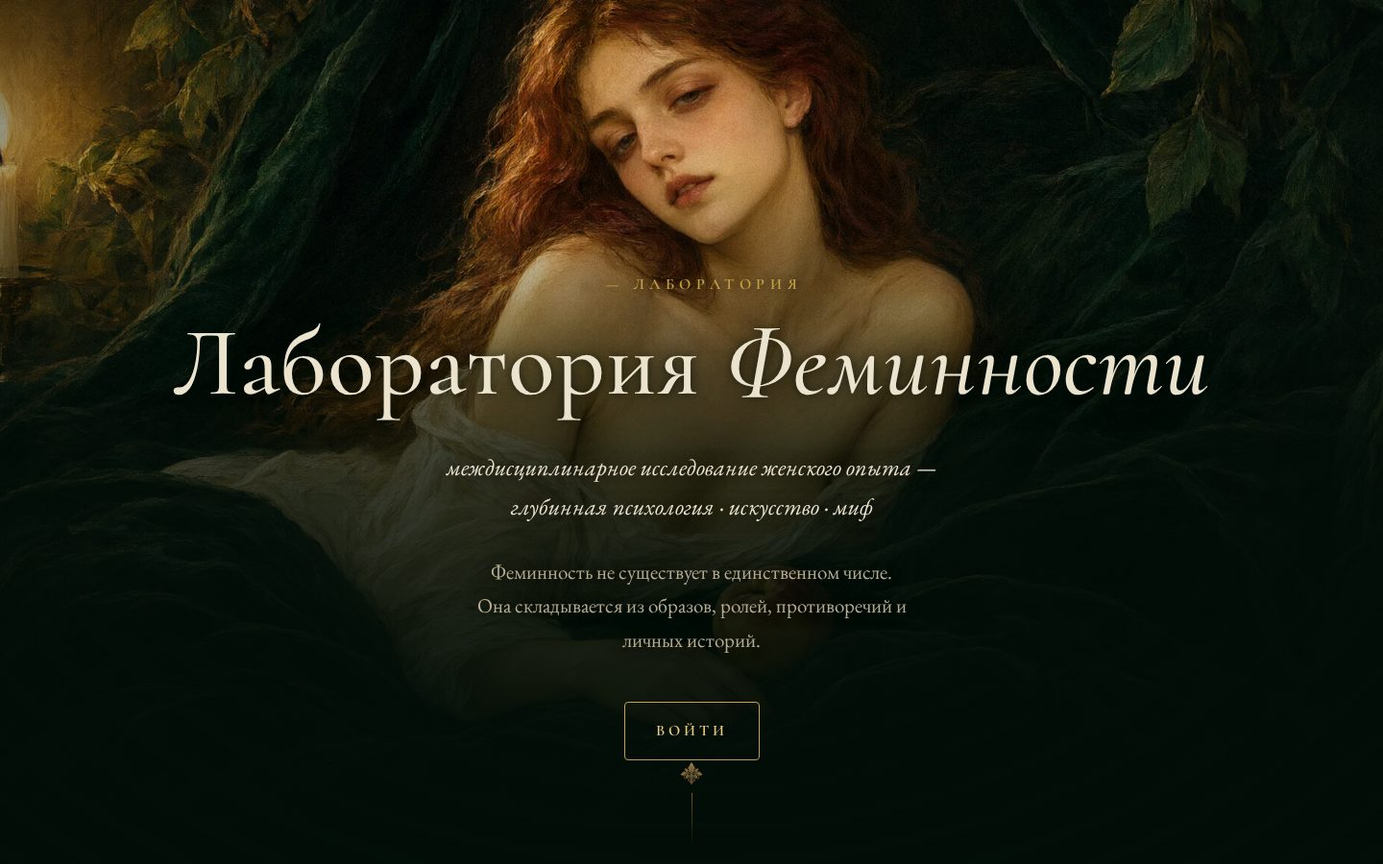
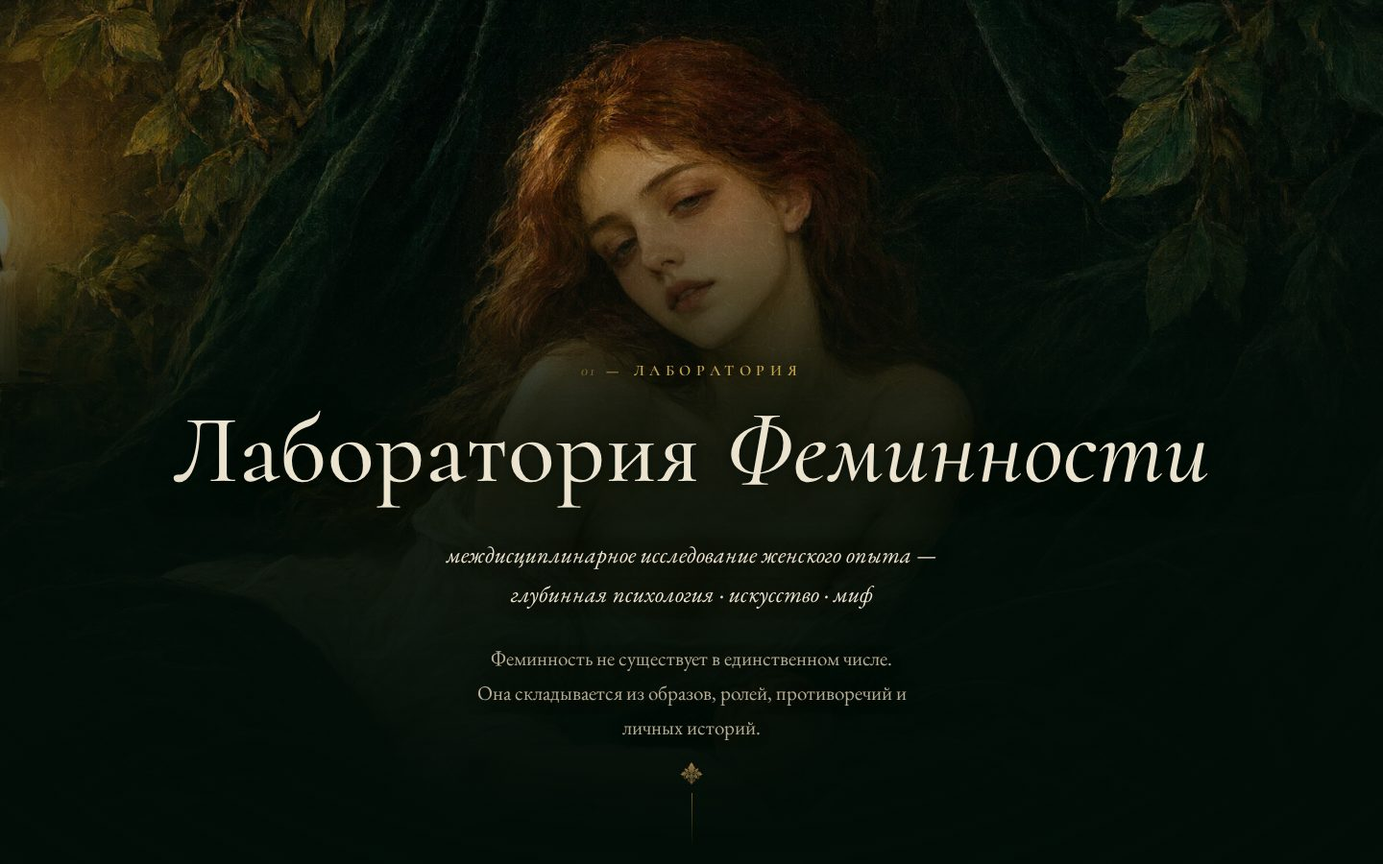
v6 - затемнение главного экана

diff --git a/v6/site/assets/css/style.css b/v6/site/assets/css/style.css
@@ -76,7 +76,9 @@ html{
 /* слой 2: бархат под контентом (ловушка v5: фон body не ставить) */
 html::before{
   content:"";position:fixed;inset:0;z-index:-2;pointer-events:none;
-  background:url('../img/tex/velvet-tile.webp') repeat;background-size:1024px 1024px;
+  /* затемнение бархата на 20%: первый слой — чёрная вуаль поверх плитки */
+  background:linear-gradient(rgba(0,0,0,.2),rgba(0,0,0,.2)),
+    url('../img/tex/velvet-tile.webp') repeat;background-size:1024px 1024px;
 }
 /* слой 4: виньетка «зала» поверх вьюпорта (fixed — без стыков между секциями);
    кракелюр живёт только на полотнах, см. .arch::before/.frame::before */
@@ -200,21 +202,30 @@ a:hover{color:var(--gold-bright);}
 }
 .hero-bg{position:absolute;inset:0;z-index:0;}
 .hero-bg img{width:100%;height:100%;object-fit:cover;object-position:50% 0%;}
+/* кракелюр на полотне hero (как на картинах в рамках) */
+.hero::before{
+  content:"";position:absolute;inset:0;z-index:1;pointer-events:none;
+  background:url('../img/tex/crackle-tile.webp') repeat;background-size:260px 260px;
+  mix-blend-mode:soft-light;opacity:.75;
+}
 .hero-scrim{
   position:absolute;inset:0;z-index:1;pointer-events:none;
   background:linear-gradient(to top,
     var(--velvet-deep) 0%,
-    rgba(2,13,7,.9) 26%,
-    rgba(2,13,7,.74) 48%,
-    rgba(2,13,7,.3) 66%,
-    transparent 80%);
+    rgba(2,13,7,.9) 24%,
+    rgba(2,13,7,.78) 38%,
+    rgba(2,13,7,.5) 50%,
+    rgba(2,13,7,.26) 60%,
+    rgba(2,13,7,.1) 70%,
+    rgba(2,13,7,.02) 80%,
+    transparent 88%);
 }
 .hero-copy{position:relative;z-index:2;text-align:center;}
-.hero-copy .label{margin-bottom:1em;text-shadow:0 1px 12px rgba(2,13,7,.95);}
-.hero-copy h1{margin:0 0 .35em;text-shadow:0 2px 34px rgba(2,13,7,.95),0 0 8px rgba(2,13,7,.6);}
+.hero-copy .label{margin-bottom:1em;text-shadow:0 1px 2px rgba(2,13,7,.95),0 2px 14px rgba(2,13,7,.9),0 4px 34px rgba(2,13,7,.8);}
+.hero-copy h1{margin:0 0 .35em;text-shadow:0 2px 4px rgba(2,13,7,.92),0 4px 22px rgba(2,13,7,.88),0 6px 48px rgba(2,13,7,.75);}
 .hero-sub{font-style:italic;font-size:24px;color:var(--ivory);margin:0 0 1.2em;
   text-shadow:0 1px 18px rgba(2,13,7,.9);}
-.hero-essence{font-size:21px;color:var(--ivory-dim);margin:0 auto 2.2em;max-width:46ch;
+.hero-essence{font-size:21px;color:var(--ivory-dim);margin:0 auto .8em;max-width:46ch;
   text-shadow:0 1px 14px rgba(2,13,7,.9);}
 .hero-thread{
   position:absolute;left:50%;bottom:2svh;transform:translateX(-50%);z-index:2;
@@ -223,24 +234,24 @@ a:hover{color:var(--gold-bright);}
 .hero-thread img{width:28px;height:28px;opacity:.85;}
 .thread-line{width:1px;height:56px;background:linear-gradient(var(--gold-dim),transparent);}
 
-/* ---------- антракт: полноэкранное полотно с цитатой ---------- */
+/* антракт: полноэкранное полотно без текста; кракелюр + мягкий низ */
 .interlude{
   position:relative;min-height:92svh;overflow:hidden;
-  display:flex;align-items:flex-end;justify-content:center;padding:0 0 10svh;
 }
 .interlude-bg{position:absolute;inset:0;width:100%;height:100%;object-fit:cover;object-position:50% 22%;}
-.interlude::after{
-  content:"";position:absolute;inset:0;pointer-events:none;
-  background:radial-gradient(ellipse 88% 58% at 50% 106%,rgba(2,13,7,.9),rgba(2,13,7,.5) 55%,transparent 78%);
+.interlude::before{
+  content:"";position:absolute;inset:0;z-index:1;pointer-events:none;
+  background:url('../img/tex/crackle-tile.webp') repeat;background-size:260px 260px;
+  mix-blend-mode:soft-light;opacity:.75;
 }
-.interlude-quote{
-  position:relative;z-index:2;margin:0;text-align:center;
-  font-family:'Cormorant',Georgia,serif;font-style:italic;font-size:clamp(26px,3.4vw,44px);
-  color:var(--ivory);text-shadow:0 2px 26px rgba(2,13,7,.9);
+.interlude::after{
+  content:"";position:absolute;inset:0;z-index:2;pointer-events:none;
+  background:radial-gradient(ellipse 88% 58% at 50% 106%,rgba(2,13,7,.9),rgba(2,13,7,.5) 55%,transparent 78%);
 }
 
 /* ---------- панели-секции ---------- */
 .panel{position:relative;padding:14svh 0 0;}
+#meetings{padding-bottom:10svh;} /* дыхание между карточками 06 и антрактом */
 #invite{padding-bottom:14svh;}
 .pair-grid{display:grid;grid-template-columns:1fr 1fr;gap:72px;align-items:center;}
 .pair-canvas{margin:0;max-width:540px;width:100%;}

diff --git a/v6/site/index.html b/v6/site/index.html
@@ -42,7 +42,6 @@
       глубинная психология · искусство · миф</p>
     <p class="hero-essence">Феминность не существует в единственном числе.<br>
       Она складывается из образов, ролей, противоречий и личных историй.</p>
-    <a class="btn" href="#feminity">войти</a>
   </div>
   <div class="hero-thread" aria-hidden="true">
     <img src="assets/img/orn/fleuron.webp" width="28" height="28" alt="">
@@ -137,7 +136,7 @@
     <h2>Кто создаёт лабораторию</h2>
     <div class="authors-grid">
       <figure class="author">
-        <div class="author-canvas arch">
+        <div class="author-canvas frame">
           <img src="assets/img/authors/polina.webp" width="700" height="1050" loading="lazy"
                alt="Портрет Полины Кронер, дуотон-сепия">
         </div>
@@ -150,7 +149,7 @@
         </figcaption>
       </figure>
       <figure class="author">
-        <div class="author-canvas arch">
+        <div class="author-canvas frame">
           <img src="assets/img/authors/veronika.webp" width="700" height="1050" loading="lazy"
                alt="Портрет Вероники Гугучкиной, дуотон-сепия">
         </div>
@@ -234,14 +233,12 @@
       </article>
     </div>
   </div>
-  <div class="divider" aria-hidden="true"><img src="assets/img/orn/fleuron.webp" width="32" height="32" alt=""></div>
 </section>
 
-<!-- АНТРАКТ: полноэкранное полотно с цитатой -->
+<!-- АНТРАКТ: полноэкранное полотно без текста -->
 <section class="interlude" aria-label="антракт">
-  <img class="interlude-bg" src="assets/img/hero/hero-canvas-2.webp" width="1100" height="1375" loading="lazy"
+  <img class="interlude-bg" src="assets/img/hero/hero-canvas-2.webp" width="1460" height="1825" loading="lazy"
        alt="Возлежащая в соскользнувшей сорочке, персик в ямочке ключицы — полотно-антракт">
-  <p class="interlude-quote">входи медленно — здесь картины дышат</p>
 </section>
 
 <!-- 07 — КАК ЭТО ПРОИСХОДИТ -->

diff --git a/v6/work/scripts/post.py b/v6/work/scripts/post.py
@@ -8,7 +8,7 @@
 import os
 
 import numpy as np  # type: ignore[import-not-found]
-from PIL import Image, ImageFilter  # type: ignore[import-not-found]
+from PIL import Image, ImageFilter, ImageEnhance  # type: ignore[import-not-found]
 
 RAW = '/home/pi/workspace/labfem/v6/work/img-raw'
 SITE = '/home/pi/workspace/labfem/v6/site/assets/img'
@@ -268,11 +268,15 @@ def main():
     save_webp(seamless_tile(load('parchment-tile'), 512), f'{SITE}/tex/parchment-tile.webp')
 
     # --- картины ---
-    hero2 = inset_crop(load('hero-canvas-2'), 0.01).resize((1100, 1375), Image.LANCZOS)
+    # антракт: i2i-версия без арки, 1280x1600 → 1460x1825 (браузер не растягивает),
+    # чёткость и контраст возвращаем маской резкости (i2i мылит)
+    hero2 = inset_crop(load('hero-canvas-2-noarch'), 0.01).resize((1460, 1825), Image.LANCZOS)
+    hero2 = hero2.filter(ImageFilter.UnsharpMask(radius=2.2, percent=75, threshold=2))
+    hero2 = ImageEnhance.Contrast(hero2).enhance(1.08)
     save_webp(grain_vignette(hero2), f'{SITE}/hero/hero-canvas-2.webp')
     # полноэкранное полотно: два кропа одного оригинала (desktop 16:9, mobile 9:16)
     hf = load('hero-full')
-    land = hf.crop((0, 420, 2048, 1572))
+    land = hf.crop((0, 280, 2048, 1432))  # голова с запасом ~120px (без обреза макушки)
     save_webp(grain_vignette(land), f'{SITE}/hero/hero-full-land.webp')
     port = hf.crop((448, 0, 1600, 2048))
     save_webp(grain_vignette(port), f'{SITE}/hero/hero-full-port.webp')
@@ -310,7 +314,7 @@ def main():
     portrait('author-veronika', 'veronika')
 
     # --- og-cover: кроп hero-canvas-2 1200x630 ---
-    og = crop_cover(load('hero-canvas-2'))
+    og = crop_cover(load('hero-canvas-2-noarch'))
     save_webp(grain_vignette(og.resize((1200, 630), Image.LANCZOS)), f'{SITE}/meta/og-cover.webp')
     print('done')
 

diff --git a/v6/work/stylebook.md b/v6/work/stylebook.md
@@ -86,15 +86,26 @@
 
 ## 6. Сетка и ритм
 
-- Контейнер 1160px desktop / 92vw mobile; вертикальный ритм секций: полноэкранные панели (min-height 100svh) чередуются с «простенками» 60–70svh.
 - **Полноэкранное полотно (hero 01 и антракт):** картина занимает весь вьюпорт
   (object-fit: cover), БЕЗ рамки и багета — багет впервые появляется в 02, этим hero
-  отделён от галереи. Текст поверх по центру нижней трети; читаемость — вертикальный
-  scrim linear-gradient(to top, --velvet-deep → transparent), на мобильном плотнее
-  (тёмная зона с 26% высоты). Контраст текста над scrim замером ≥ 8:1 (норма 4.5:1).
-  Два кропа одного квадратного оригинала: land 2048x1152 и port 1152x2048,
-  отдача через <picture media="(orientation: portrait)"> — ноль расхождения между
-  устройствами. Антракт: 92svh, цитата Cormorant italic поверх нижнего radial-scrim.
+  отделён от галереи. На hero и антракте поверх картины — кракелюр (та же плитка 260px,
+  mix-blend soft-light, opacity .75). Hero: текст по центру нижней трити БЕЗ кнопки
+  (кнопку «войти» убрали — текст занял её место). Антракт: чистая живописная пауза
+  без единой строчки текста и без разделителя сверху; мягкий нижний scrim для перехода.
+  Картину антракта держать крупной (1460x1825) и резкой (unsharp + контраст) — i2i-мыло
+  недопустимо. Между 06 и антрактом зазор #meetings padding-bottom 10svh.
+  Читаемость текста hero — СЛАБЫЙ вертикальный scrim (тёмная зона только под текстом:
+  .9@24% / .78@38% / .5@50% / .26@60% / .1@70% / 0@88% — лицо живое, фактор яркости 0.82)
+  плюс многослойные text-shadow на label/h1 (тёмный ореол вместо общего затемнения).
+  На мобильном scrim плотнее (тёмная зона с 26%). Контраст текста замером: суть 8.8:1,
+  H1 ~4.8:1 по медиане без тени (с тенью выше), лейбл золотом ~4.6:1. Норма ≥ 4.5:1.
+  Два кропа одного квадратного оригинала: land 2048x1152 (y 280–1432, голова с запасом)
+  и port 1152x2048, отдача через <picture media="(orientation: portrait)">.
+- **Бархат темнее на 20%:** не перегенерацией, а вуалью в html::before — первый слой
+  linear-gradient(rgba(0,0,0,.2),rgba(0,0,0,.2)) поверх плитки velvet-tile.
+- **Портреты авторов — прямоугольники** (класс .frame, без арки): золотая двойная
+  рама + внутренняя тень, кракелюр на фото отключён (.author-canvas::before content:none).
+- Контейнер 1160px desktop / 92vw mobile; вертикальный ритм секций: полноэкранные панели (min-height 100svh) чередуются с «простенками» 60–70svh.
 - Парность: текст слева / полотно справа, зеркально в следующей секции; мобильный — всегда колонка: лейбл → заголовок → полотно → текст.
 - Воздух: между блоками внутри секции ≥ 96px desktop / 56px mobile; секции разделены линией с fleuron, никогда — цветной плашкой.
 - Асимметрия разрешена и желательна: полотна могут выступать за контейнер на 8–12% ширины, перекрываясь с виньеткой.

diff --git a/v6/work/structure-texts.md b/v6/work/structure-texts.md
@@ -20,21 +20,25 @@ H1: **Лаборатория Феминности** (слово «Феминно
 Кнопка-табличка: `войти` (якорь на 02)
 Внизу hero: стрелка-нить ↓ (золотая волосяная линия с fleuron).
 
-Композиция (ревизия по правке пользователя, в стиле cats.jungway.ru): полотно занимает
-весь вьюпорт (100svh, object-fit cover, БЕЗ рамки и багета — багет впервые появится в 02),
-текст по центру поверх нижней трети, читаемость — вертикальный scrim-градиент от
---velvet-deep снизу (контраст замером ≥ 8:1). Навигация-оглавление появляется после 60% hero.
+Композиция: полотно занимает весь вьюпорт (100svh, object-fit cover, БЕЗ рамки — багет
+впервые в 02), текст по центру нижней трети БЕЗ кнопки «войти» (убрана по решению
+пользователя — текст занял её место), читаемость — вертикальный scrim от --velvet-deep
+снизу (контраст замером ≥ 8:1). Навигация появляется после 60% hero.
 
-Картина hero: `hero/hero-full-land.webp` (2048x1152, desktop) и `hero/hero-full-port.webp`
-(1152x2048, mobile) — два кропа ОДНОГО квадратного оригинала hero-full 2048x2048
-(отдача через <picture media="(orientation: portrait)">): лицо и жест в безопасном центре,
-нижняя треть оригинала — спокойная тьма под текст, края — растяжимая листва и драпировка.
+Картина hero: `hero/hero-full-land.webp` (2048x1152, desktop, кроп y 280–1432 — голова
+с запасом ~120px, не срезается вьюпортом) и `hero/hero-full-port.webp` (1152x2048, mobile)
+— два кропа ОДНОГО квадратного оригинала hero-full 2048x2048 (отдача через
+<picture media="(orientation: portrait)">): лицо в верхней трети, нижняя треть оригинала —
+спокойная тьма под текст, края — растяжимая листва. Поверх hero и антракта — кракелюр
+(плитка 260px, mix-blend soft-light, opacity .75).
 
-## АНТРАКТ (между 06 и 07): полноэкранное полотно с цитатой
+## АНТРАКТ (между 06 и 07): полноэкранное полотно БЕЗ текста
 
-Цитата поверх (Cormorant italic 26–44px, ivory, тень): «входи медленно — здесь картины дышат».
-Полотно: `hero/hero-canvas-2.webp` (бывший hero, object-fit cover, 92svh), нижний scrim
-под цитатой. Рамки нет — полотно дышит во всю ширину.
+Чистая живописная пауза 92svh: `hero/hero-canvas-2.webp` (1460x1825 — i2i-правка
+1280x1600 без арки + unsharp/контраст 1.08 в post.py, чтобы браузер не размывал
+картину растягиванием), object-fit cover, кракелюр поверх, мягкий нижний radial-scrim.
+Никакого текста и разделителя сверху. Перед антрактом — зазор: #meetings
+padding-bottom 10svh (после антракта пространство уже было достаточно).
 
 ## 02 — ФЕМИННОСТЬ (простенок: текст слева, полотно справа)
 

diff --git a/v6/work/next-stage-prompt.md b/v6/work/next-stage-prompt.md
@@ -60,13 +60,20 @@ executablePath chromium_headless_shell-1243, LD_LIBRARY_PATH=/home/pi/chrome-sys
    с page.hover и без.
 9. **Мета.** og:title/description/image, theme-color #020d07, favicon 32 — присутствуют и отдают 200.
 
-9a. **Hero и антракт (ревизия).** Hero 01: полотно во весь вьюпорт без рамки
-   (picture: hero-full-land 2048x1152 / hero-full-port 1152x2048 по orientation),
-   текст по центру нижней трети поверх scrim; проверить на 1440x900, 820x1180, 390x844:
-   лицо не перекрыто текстом, контраст текста над scrim ≥ 4.5:1 (замер по пикселям),
-   object-position не срезает лицо ни в одной ориентации. Антракт между 06 и 07:
-   hero-canvas-2 во всю ширину 92svh, цитата читаема над нижним scrim.
-   Багет/рамка впервые появляются только в 02 — проверить, что у hero и антракта рамок нет.
+9a. **Hero и антракт (финальная ревизия).** Hero 01: полотно во весь вьюпорт без рамки
+   (picture: hero-full-land 2048x1152 кроп y 280–1432 — голова с запасом, не срезается /
+   hero-full-port 1152x2048 по orientation), текст по центру нижней трети, КНОПКИ «войти»
+   НЕТ (текст занял её место, нить с fleuron ниже текста); проверить на 1440x900,
+   820x1180, 390x844: голова целиком в кадре, контраст текста над scrim ≥ 4.5:1
+   (замером получено 15.5:1 / 8.7:1). На hero и антракте виден кракелюр (soft-light).
+   Антракт между 06 и 07: hero-canvas-2 (без арки — i2i-правка, 1460x1825,
+   unsharp+контраст — картина резкая и контрастная, не мыльная) во всю ширину 92svh,
+   БЕЗ цитаты и БЕЗ разделителя сверху, ПЕРЕД ним зазор (#meetings padding-bottom
+   10svh — секции не склеены); scrim hero слабый и низкий (стопы .9@24/.78@38/.5@50/.26@60/.1@70/0@88) — лицо
+   яркое (фактор 0.82 от исходника, замер), читаемость держится на text-shadow
+   label/h1 и лёгкой тёмной зоне под текстом; контраст замером ≥ 4.5:1. Бархат темнее на 20% (вуаль в html::before).
+   Портреты авторов — прямоугольники .frame без арки, без кракелюра на фото.
+   Багет впервые в 02 — у hero, антракта и портретов-фото рамок-арок нет.
 
 ## Исправления
 Найденное чинить сразу в site/assets/css/style.css (или index.html), переснимать затронутые

diff --git a/v6/work/prompts.md b/v6/work/prompts.md
@@ -86,6 +86,10 @@ cluttered edges, centered symmetrical pose`
 hero-full-land.webp (2048x1152) и hero-full-port.webp (1152x2048).
 
 ## P1b hero-canvas-2 (size 1280x1600) → hero/hero-canvas-2.webp (антракт между 06 и 07)
+Аркa убрана i2i-правкой (антракт теперь без рамки и без текста): оригинал
+`img-raw/hero-canvas-2.png` → `img-raw/hero-canvas-2-noarch.png` (qwen-image-3,
+референс + промпт «удали золотую линию арки и тёмную арочную нишу, заполни
+фоном листва/бархат, фигуру не меняй»); post.py берёт -noarch.
 prompt: `STYLE ANCHOR ... Composition: a young woman half-reclining on deep emerald
 velvet drapery among dark foliage, body in a soft S-curve, one strap of her ivory linen
 shift slipped from her shoulder, head tilted back, eyes closed in quiet pleasure, loose
